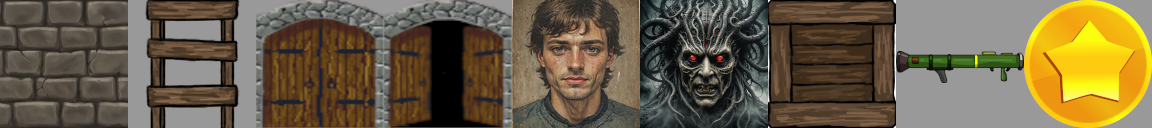
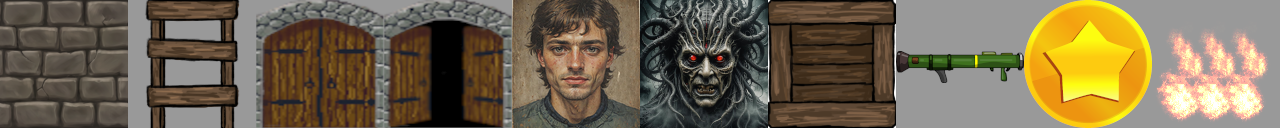
0.4.1 animated flame tile

diff --git a/main.js b/main.js
@@ -1,17 +1,18 @@
-import {loadData, settings} from "./data.js"
-import {project, tileMap} from "../Furca/src/project.js"
+import {flameImages, loadData, settings} from "./data.js"
+import {project, tileMap, tileSet} from "../Furca/src/project.js"
 import {emptyTile, initTileMap} from "../Furca/src/tile_map.js"
-import {defaultCanvas} from "../Furca/src/system.js"
+import {defaultCanvas, texture} from "../Furca/src/system.js"
 import {Key} from "../Furca/src/key.js"
 import {Layer} from "../Furca/src/layer.js"
 import {MoveToPoint} from "./move_to_point.js"
-import {abs, dist, sign} from "../Furca/src/functions.js"
+import {abs, dist, floor, sign} from "../Furca/src/functions.js"
 import {currentCanvas} from "../Furca/src/canvas.js"
 import {Entity} from "./entity.js"
+import {ImageArray} from "../Furca/src/image_array.js"
 
 project.getAssets = () => {
     return {
-        texture: ["tiles.png"],
+        texture: ["tiles.png", "flame.png"],
         sound: [],
     }
 }
@@ -25,6 +26,7 @@ const enemyTile = 5
 const crateTile = 6
 const bazookaTile = 7
 const coinTile = 8
+const flameTile = 9
 
 const walkable = [emptyTile, ladderTile, openedDoorTile, bazookaTile, coinTile]
 
@@ -147,7 +149,10 @@ project.init = () => {
         return true
     }
 
+
     project.update = () => {
+        tileSet.trespasser.images.setImage(flameTile, flameImages.image(floor(new Date().getTime() / 50) % 25))
+
         fx.update()
         if(gameState === GameState.idle) {
             let dx = 0, dy = 0

diff --git a/data.js b/data.js
@@ -4,8 +4,12 @@ import {ImageArray} from "../Furca/src/image_array.js"
 import {texture} from "../Furca/src/system.js"
 import {TileMap} from "../Furca/src/tile_map.js"
 
+export let flameImages
+
 export function loadData() {
-    tileSet.trespasser = new TileSet(new ImageArray(texture.tiles, 9, 1))
+    flameImages = new ImageArray(texture.flame, 5, 5)
+
+    tileSet.trespasser = new TileSet(new ImageArray(texture.tiles, 10, 1))
 
     tileMap.level1 = new TileMap(tileSet.trespasser, 11, 11, -2, -2, 1, 1, [
         0,   2,   5,   0,   0,   0,   0,   0,   5,   0,   0,
@@ -13,7 +17,7 @@ export function loadData() {
         0,   8,   0,   0,   0,   1,   0,   1,   0,   8,   0,
         0,  -1,  -1,  -1,  -1,   1,  -1,   1,  -1,  -1,   0,
         0,   1,   0,   1,   0,   8,   0,   1,   0,  -1,   0,
-        0,   1,  -1,  -1,  -1,  -1,  -1,  -1,  -1,  -1,   0,
+        0,   1,  -1,  -1,  -1,  -1,  -1,  -1,   9,  -1,   0,
         0,   8,   0,   1,   0,   1,   0,   8,   0,  -1,   0,
         0,  -1,  -1,  -1,  -1,   1,  -1,  -1,  -1,  -1,   0,
         0,   1,   0,   0,   0,   8,   0,   0,   0,   1,   0,

diff --git a/index.html b/index.html
@@ -7,7 +7,7 @@
         <script type="module" src="main.js"></script>
     </head>
     <body width="100%" height="100%" align="center" style="color: white; display: flex; flex-wrap: nowrap
-    ; justify-content: center; margin: 0; background-color: black">
+    ; justify-content: center; margin: 0; background-color: #999999">
         <canvas id="canvas"></canvas>
     </body>
 </html>
